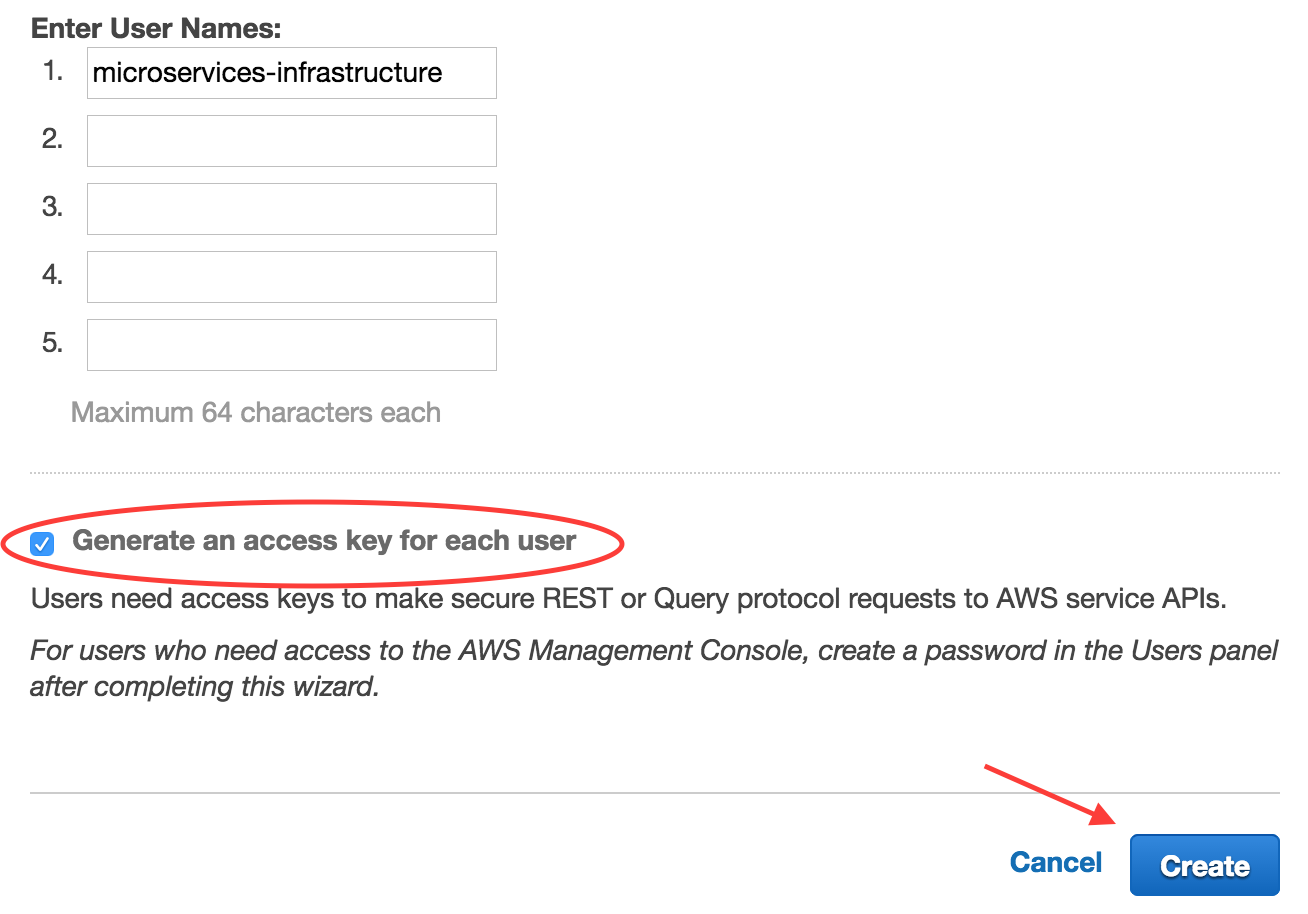
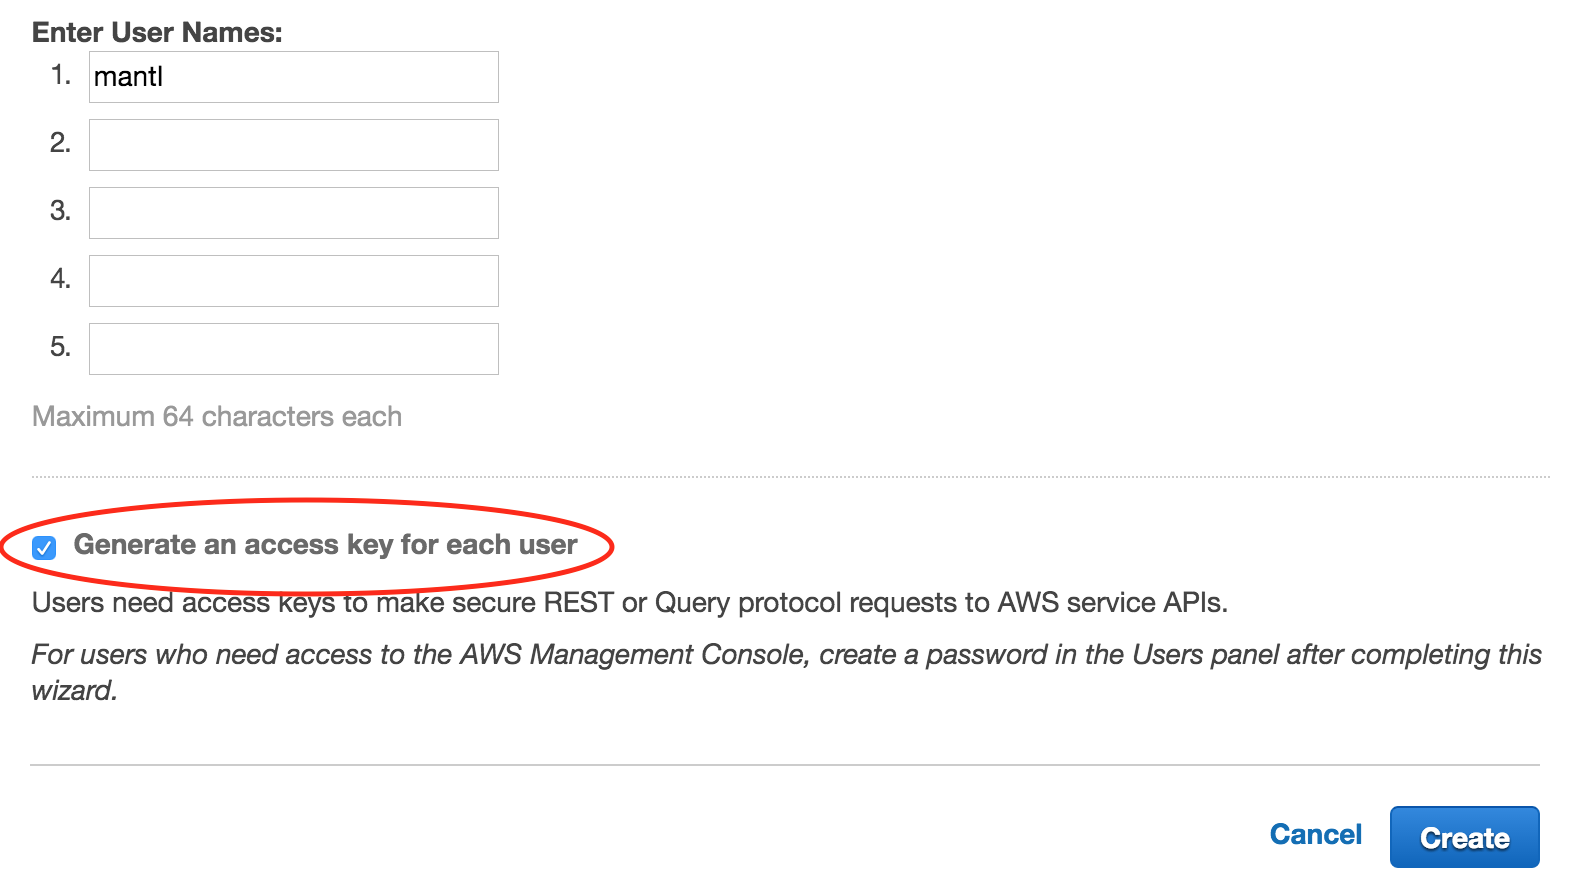
docs: change MI -> Mantl throughout

diff --git a/docs/conf.py b/docs/conf.py
@@ -1,7 +1,7 @@
 # -*- coding: utf-8 -*-
 #
-# Microservices Infrastructure documentation build configuration file, created by
-# sphinx-quickstart on Wed Feb  4 06:59:14 2015.
+# Mantl documentation build configuration file, created by sphinx-quickstart on
+# Wed Feb 4 06:59:14 2015.
 #
 # This file is execfile()d with the current directory set to its
 # containing dir.
@@ -48,7 +48,7 @@ source_suffix = '.rst'
 master_doc = 'index'
 
 # General information about the project.
-project = u'Microservices Infrastructure'
+project = u'Mantl'
 copyright = u'2015, Cisco Systems, Incorporated'
 
 # The version info for the project you're documenting, acts as replacement for
@@ -193,7 +193,7 @@ html_show_sphinx = False
 #html_file_suffix = None
 
 # Output file base name for HTML help builder.
-htmlhelp_basename = 'MicroservicesInfrastructuredoc'
+htmlhelp_basename = 'Mantldoc'
 
 
 # -- Options for LaTeX output ---------------------------------------------
@@ -213,7 +213,7 @@ latex_elements = {
 # (source start file, target name, title,
 #  author, documentclass [howto, manual, or own class]).
 latex_documents = [
-  ('index', 'MicroservicesInfrastructure.tex', u'Microservices Infrastructure Documentation',
+  ('index', 'Mantl.tex', u'Mantl Documentation',
    u'Cisco Systems, Incorporated', 'manual'),
 ]
 
@@ -243,7 +243,7 @@ latex_show_urls = 'footnote'
 # One entry per manual page. List of tuples
 # (source start file, name, description, authors, manual section).
 man_pages = [
-    ('index', 'microservicesinfrastructure', u'Microservices Infrastructure Documentation',
+    ('index', 'Mantl', u'Mantl Documentation',
      [u'Cisco Systems, Incorporated'], 1)
 ]
 
@@ -257,8 +257,8 @@ man_pages = [
 # (source start file, target name, title, author,
 #  dir menu entry, description, category)
 texinfo_documents = [
-  ('index', 'MicroservicesInfrastructure', u'Microservices Infrastructure Documentation',
-   u'Cisco Systems, Incorporated', 'MicroservicesInfrastructure', 'One line description of project.',
+  ('index', 'Mantl', u'Mantl Documentation',
+   u'Cisco Systems, Incorporated', 'Mantl', 'One line description of project.',
    'Miscellaneous'),
 ]
 

diff --git a/docs/getting_started/aws.rst b/docs/getting_started/aws.rst
@@ -61,9 +61,9 @@ Next, navigate to the "Users" screen and click the "Create New Users" button.
    :alt: Create IAM User
 
 You will be given the opportunity to create 5 different users on the next
-screen. For our purposes, we are just going to create one:
-"microservices-infrastructure". Make sure that you leave the "Generate an access
-key for each user" option checked and click the "Create" button.
+screen. For our purposes, we are just going to create one: "mantl". Make sure
+that you leave the "Generate an access key for each user" option checked and
+click the "Create" button.
 
 .. image:: /_static/aws_iam_create_user.png
    :alt: IAM Create User

diff --git a/docs/getting_started/index.rst b/docs/getting_started/index.rst
@@ -6,8 +6,8 @@ Getting Started
           continuing. This can be done simply by running ``pip install -r
           requirements.txt`` from the root of the project.
 
-The Microservices Infrastructure project uses Ansible to bring up
-nodes and clusters. This generally means that you need three things:
+The Mantl project uses Ansible to bring up nodes and clusters. This generally
+means that you need three things:
 
  1. hosts to use as the base for your cluster
  2. an `inventory file`_ with the hosts you want to be modified.

diff --git a/docs/getting_started/digitalocean.rst b/docs/getting_started/digitalocean.rst
@@ -32,8 +32,8 @@ at the API page of DigitalOcean UI.
    :alt: The DigitalOcean API UI
 
 To create a token, click "Generate New Token" in the "Personal Access Tokens"
-list. Name your token (``microservices-infrastructure`` could be a good name)
-and make sure that write access is granted.
+list. Name your token (``mantl`` could be a good name) and make sure that write
+access is granted.
 
 .. image:: /_static/digitalocean_new_token.png
    :alt: The token creation page, making sure write access is granted.

diff --git a/docs/components/index.rst b/docs/components/index.rst
@@ -1,8 +1,8 @@
 Components
 ==========
 
-Microservices Infrastructure is made up of a number of components
-which can be customized, generally using Ansible variables.
+Mantl is made up of a number of components which can be customized, generally
+using Ansible variables.
 
 .. toctree::
    :maxdepth: 1
